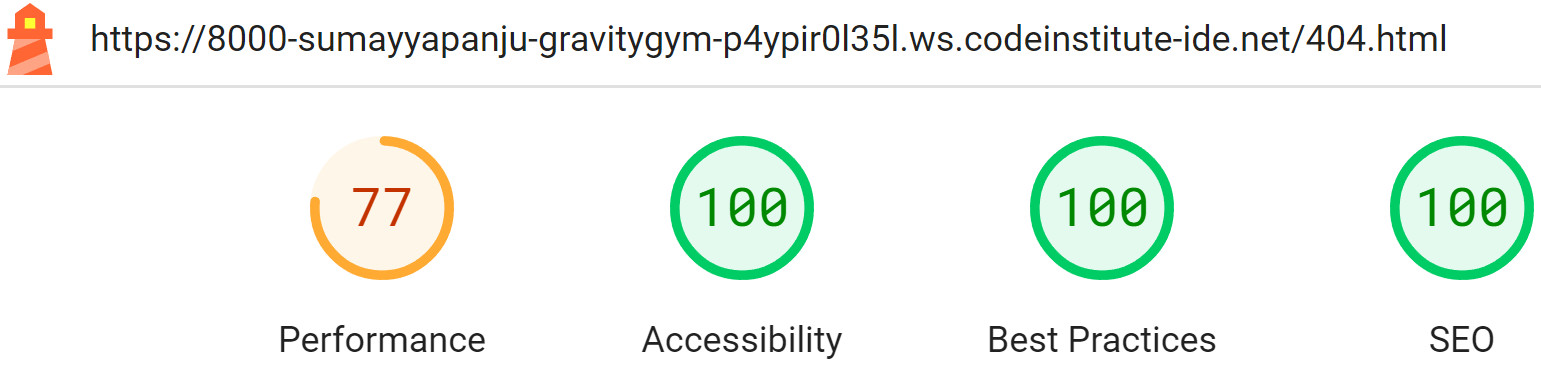
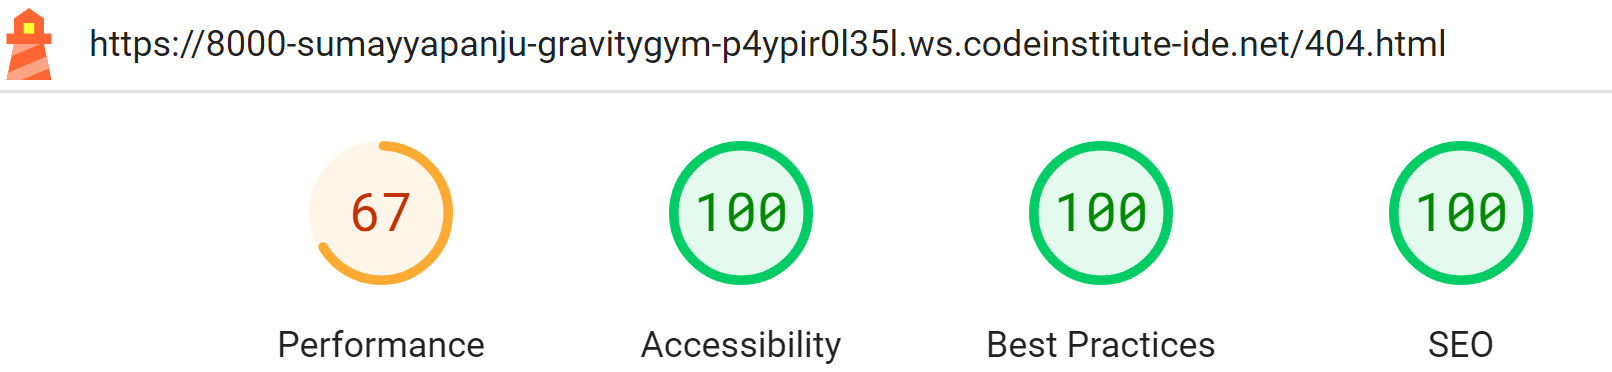
Testing: Mobile audit updated

diff --git a/TESTING.md b/TESTING.md
@@ -506,7 +506,7 @@ Lighthouse provided some suggestions on how the pages could be improved. Similar
 
 <br>
 
-After implementing the changes, most of the suggestions made imrpoved the site score. However, there were some diagnostic suggestions that was beyond my ability to overcome. Either due to lack of capacity or lack of administrative rights. This was consistent for all pages throughout the project. The screenshot below shows the suggestions provided by Lighthouse that could increase the score further.  
+After implementing the changes, most of the suggestions made improved the site score. However, there were some diagnostic suggestions that was beyond my ability to overcome. Either due to lack of capacity or lack of administrative rights. This was consistent for all pages throughout the project. The screenshot below shows the suggestions provided by Lighthouse that could increase the score further.  
 
 <details>
 
@@ -522,11 +522,9 @@ After implementing the changes, most of the suggestions made imrpoved the site s
 
 The table below shows the lighthouse results before and after changes have been implemented. 
 
-<details>
+**Desktop Audit Results**
 
-**<summary> Desktop Audit Results</summary>**
-
-|                            | Screenshot - Before changes | Screenshot - After changes  suggests:                  |
+|                            | Screenshot - Before changes made: | Screenshot - After changes made:                  |
 |----------------------------|------------------------------------------|-------------------------------------------|
 | **Home**                   |![Screenshot](/assets/images/testing/audits/la-home-before.png) | ![Screenshot](/assets/images/testing/audits/la-home-after.png)       |
 | **Plans**                  | ![Screenshot](/assets/images/testing/audits//la-plans-before.png)     | ![Screenshot](/assets/images/testing/audits/la-plans-after.png)       |
@@ -538,27 +536,70 @@ The table below shows the lighthouse results before and after changes have been 
 | **404**                    | ![Screenshot](/assets/images/testing/audits/la-404-before.png)        | ![Screenshot](/assets/images/testing/audits/la-404-after.png)    |
 
 
-</details>
 
 <br>
 
 
 ### Mobile Audit 
+
+>Click below, on the relevant headings to expand
+
+Lighthouse provided some suggestions on how the pages could be improved. Similar suggestions were provided for all pages except 'Home' and 'Gallery' page. The screenshot below shows the suggestions provided by Lighthouse.  
+
 <details>
 
-**<summary> Mobile Audit...</summary>**
+**<summary>Suggestions by Lighthouse audit for All pages</summary>**
 
+>![Screenshot](/assets/images/testing/audits/m-diagnostic-results-all.png.png)
 
-|                            | Screenshot                                                      | Notes                                                             |
-|----------------------------|-----------------------------------------------------------------|-------------------------------------------------------------------|
-| **Home**                   | ![Screenshot](/assets/images/testing/audits/la-m-home.png)      | [See below](#further-information-on-lighthouse-audit-for-mobiles) |
-| **Plans**                  | ![Screenshot](/assets/images/testing/audits/la-m-plans.png)     | [See below](#further-information-on-lighthouse-audit-for-mobiles) |
-| **Plans - Thank you**      | ![Screenshot](/assets/images/testing/audits/la-m-plans-ty.png)  | [See below](#further-information-on-lighthouse-audit-for-mobiles) |
-| **Gallery**                | ![Screenshot](/assets/images/testing/audits/la-m-gallery.png)   | [See below](#further-information-on-lighthouse-audit-for-mobiles) |
-| **Schedules**              | ![Screenshot](/assets/images/testing/audits/la-m-schedules.png) | [See below](#further-information-on-lighthouse-audit-for-mobiles) |
-| **Contact Us**             | ![Screenshot](/assets/images/testing/audits/la-m-contactus.png) | [See below](#further-information-on-lighthouse-audit-for-mobiles) |
-| **Contact Us - Thank you** | ![Screenshot](/assets/images/testing/audits/la-m-thankyou.png)  | [See below](#further-information-on-lighthouse-audit-for-mobiles) |
-| **404**                    | ![Screenshot](/assets/images/testing/audits/la-m-404.png)       | [See below](#further-information-on-lighthouse-audit-for-mobiles) |
+</details>
+
+<details>
+
+**<summary>Suggestions by Lighthouse audit for Home and Gallery page</summary>**
+
+>![Screenshot](/assets/images/testing/audits/m-diagnostic-results-h-g.png.png)
+
+</details>
+
+<br>
+<br>
+
+After implementing the changes, most of the suggestions made improved the site score. However, there were some diagnostic suggestions that was beyond my ability to overcome. Either due to lack of capacity or lack of administrative rights. This was consistent for all pages throughout the project except for 'Gallery' page. The screenshot below shows the suggestions provided by Lighthouse that could increase the score further.  
+
+<details>
+
+**<summary>Suggestions by Lighthouse audit for all pages</summary>**
+
+>![Screenshot](/assets/images/testing/audits/m-diagnostic-results-all-after.png) 
+
+</details>
+
+<details>
+
+**<summary>Suggestions by Lighthouse audit for Gallery page</summary>**
+
+>![Screenshot](/assets/images/testing/audits/m-diagnostic-results-g-after.png.png) 
+
+</details>
+
+<br>
+<br>
+
+The table below shows the lighthouse results before and after changes have been implemented. 
+
+**Mobile Audit Results**
+
+|                            | Screenshot - Before changes made: | Screenshot - After changes made:                  |
+|----------------------------|------------------------------------------|-------------------------------------------|
+| **Home**                   | ![Screenshot](/assets/images/testing/audits/la-m-home.png) |  ![Screenshot](/assets/images/testing/audits/la-m-home-after.png) |
+| **Plans**                  | ![Screenshot](/assets/images/testing/audits/la-m-plans.png) |![Screenshot](/assets/images/testing/audits/la-m-plans-after.png)  |
+| **Plans - Thank you**      | ![Screenshot](/assets/images/testing/audits/la-m-plans-ty.png)  |![Screenshot](/assets/images/testing/audits/la-m-plans-ty-after.png) |
+| **Gallery**                | ![Screenshot](/assets/images/testing/audits/la-m-gallery.png)  | ![Screenshot](/assets/images/testing/audits/la-m-gallery-after.png)  |
+| **Schedules**              | ![Screenshot](/assets/images/testing/audits/la-m-schedules.png) |![Screenshot](/assets/images/testing/audits/la-m-schedules-after.png) |
+| **Contact Us**             | ![Screenshot](/assets/images/testing/audits/la-m-contactus.png) |![Screenshot](/assets/images/testing/audits/la-m-contactus-after.png)  |
+| **Contact Us - Thank you** | ![Screenshot](/assets/images/testing/audits/la-m-thankyou.png) |![Screenshot](/assets/images/testing/audits/la-m-thankyou-after.png) |
+| **404**                    | ![Screenshot](/assets/images/testing/audits/la-m-404.png)     |![Screenshot](/assets/images/testing/audits/la-m-404-after.png)   |
 
 
 ### Changes implemented
@@ -574,16 +615,6 @@ Based on the suggestions the following changes were made for each pages:
 |**Schedules** | Spacing for touch target was increased for improving accessibility |
 |**Contact Us** | - Image size changed to match natural aspect ratio for best practice |
 
-<br>
-
-
-#### Further information on lighthouse audit for mobiles
-
-For all or almost all pages, there were common suggestions by lighthouse to improve performance of the website. These suggestions were not carried out due to lack of skills/knowledge in those areas. The screenshot below shows the suggestions given by lighthouse:
-
->![Screenshot](/assets/images/testing/audits/m-diagnostic-results.png)
-
-</details>
 
 <br>
 
